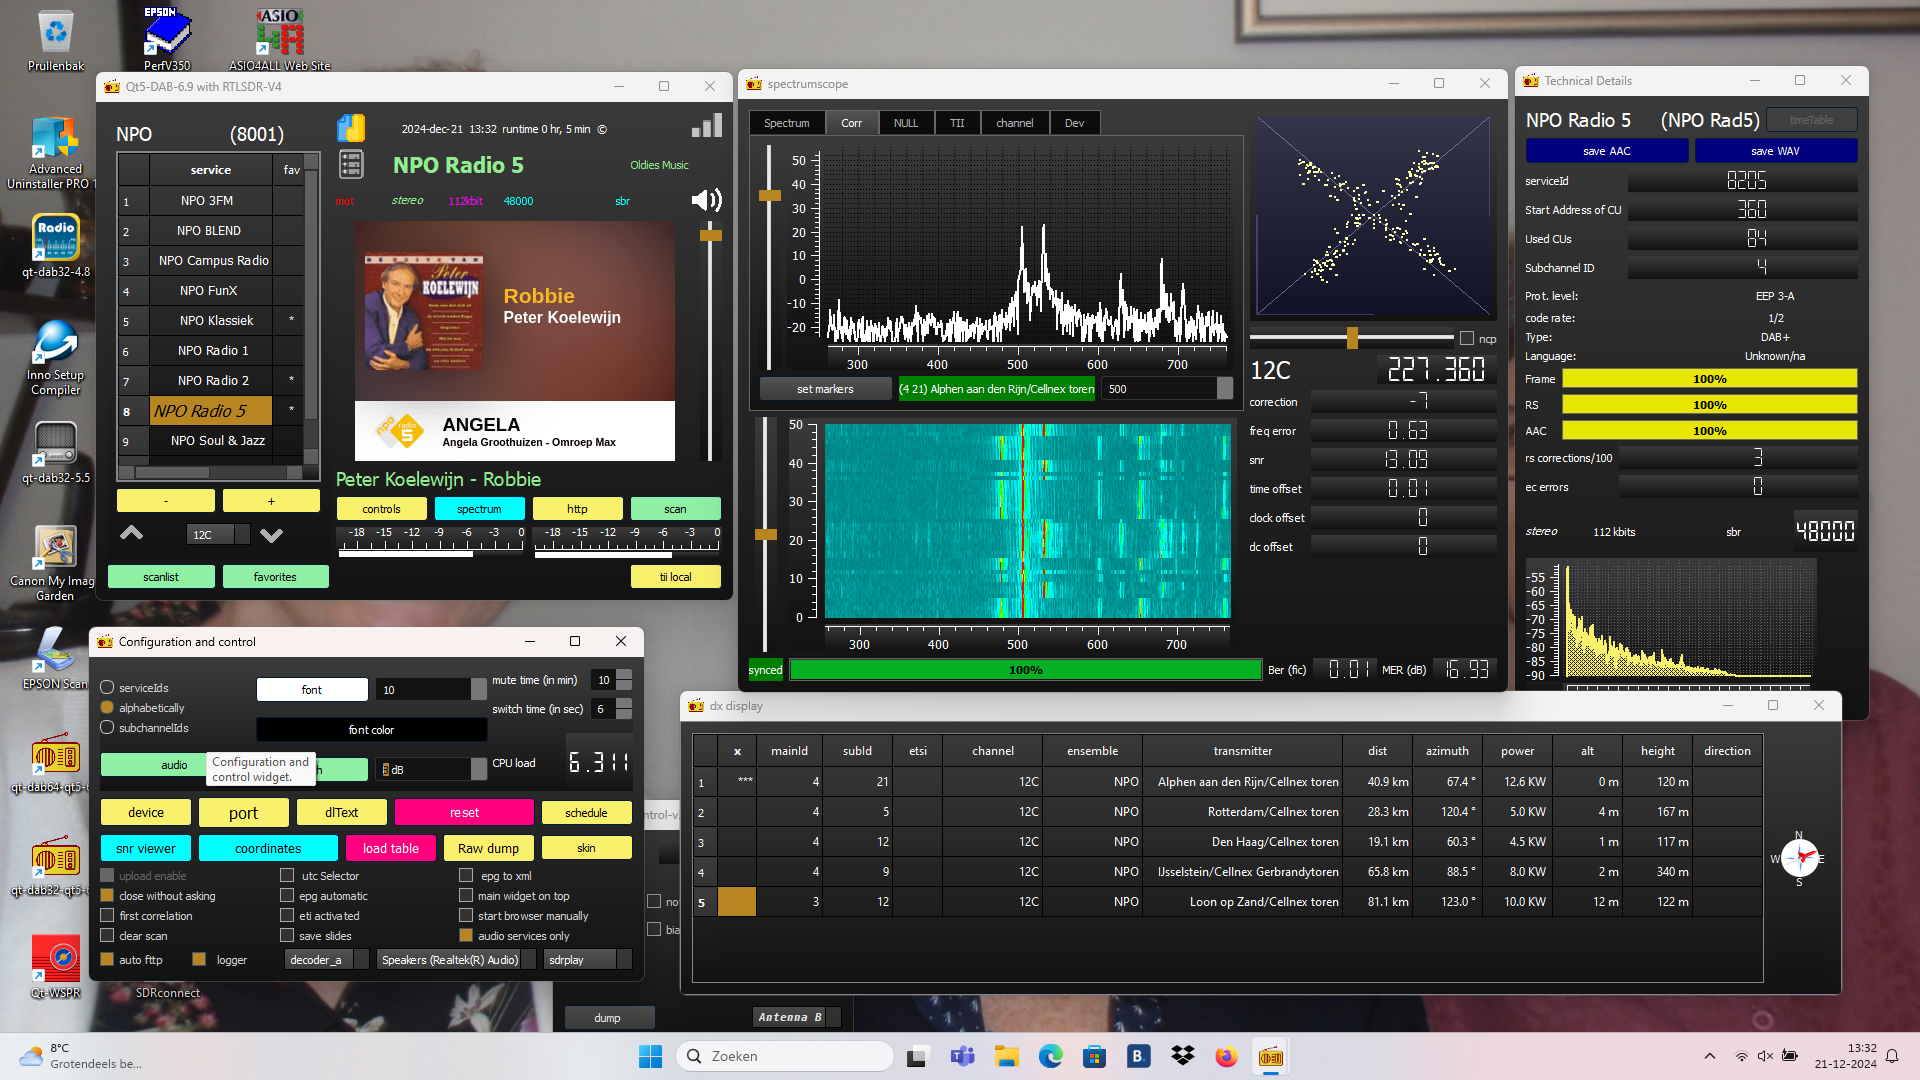
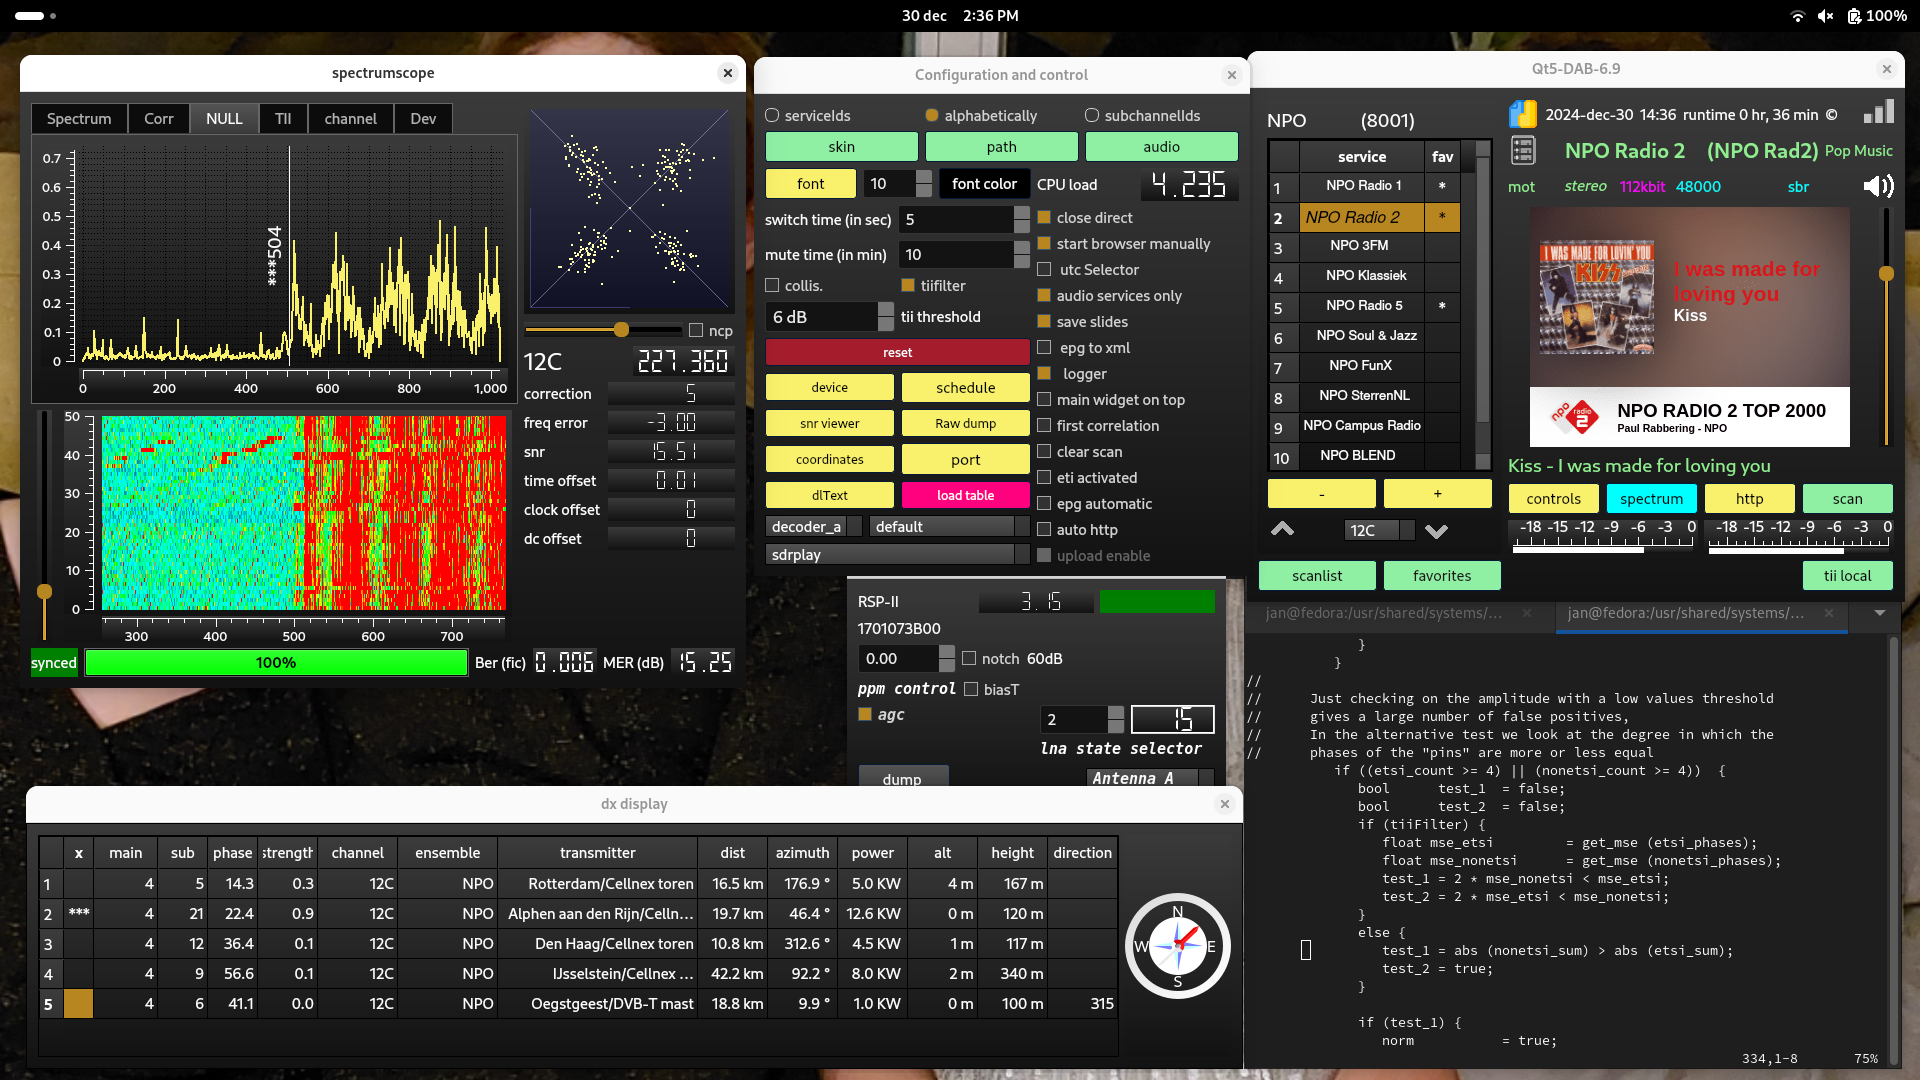
cleaning up and better headers

diff --git a/qt-dab-6.9/radio.cpp b/qt-dab-6.9/radio.cpp
@@ -2549,7 +2549,12 @@ void	RadioInterface::start_scan_single () {
 	                           "tii" + ";" +
 	                           "time" + ";" +
 	                           "SNR" + ";" +
-	                           "nr services" + ";";
+	                           "nr services" + ";" +
+	                           "transmitterName;" +
+	                           "distance;" +
+	                           "azimuth;" +
+	                           "height";
+	 
 	scanTable_p	-> addLine (topLine);
 	scanTable_p	-> addLine ("\n");
 
@@ -2580,7 +2585,11 @@ void	RadioInterface::start_scan_continuous () {
 	                           "tii" + ";" +
 	                           "time" + ";" +
 	                           "SNR" + ";" +
-	                           "nr services" + ";";
+	                           "nr services" + ";" +
+	                           "transmitterName;" +
+	                           "distance;" +
+	                           "azimuth;" +
+	                           "height";
 	scanTable_p -> addLine (topLine);
 	scanTable_p	-> addLine ("\n");
 
@@ -2605,7 +2614,7 @@ void	RadioInterface::start_scan_continuous () {
 void	RadioInterface::stopScanning	() {
 	if (!theSCANHandler. active ())
 	   return;
-	fprintf (stderr, "De scan wordt gestopt\n");
+//	fprintf (stderr, "De scan wordt gestopt\n");
 	disconnect (theOFDMHandler, &ofdmHandler::no_signal_found,
 	            this, &RadioInterface::no_signal_found);
 	presetButton	-> setText ("favorites");
@@ -2750,7 +2759,7 @@ void	RadioInterface::next_for_scan_continuous () {
 	stopChannel ();
 
 	QString cs	= theSCANHandler. getNextChannel ();
-	fprintf (stderr, "Going for channel %s\n", cs. toLatin1 (). data ());
+//	fprintf (stderr, "Going for channel %s\n", cs. toLatin1 (). data ());
 	int cc	= channelSelector -> findText (cs);
 	new_channelIndex (cc);
 	int switchDelay	= 
@@ -2775,13 +2784,13 @@ QString	theHeight;
 
 	if (channel. mainId != -1) 
 	   tii		= ids_to_string (channel. mainId,
-	                                     channel. subId) + ";" ;
+	                                     channel. subId);
 	else
-	   tii		= "?,?;";
+	   tii		= "???";
 	if (channel. transmitterName != "")
-	   theName	= channel. transmitterName + ";";
+	   theName	= channel. transmitterName;
 	else
-	   theName 	= ";";
+	   theName 	= " ";
 	if (channel. distance > 0) {
 	   theDistance	= QString::number (channel. distance, 'f', 1) + " km ";
 	   theAzimuth	= QString::number (channel. azimuth, 'f', 1)
@@ -2801,12 +2810,12 @@ QString	theHeight;
 	                      channel. channelName  + ";" +
 	                      QString::number (channel. tunedFrequency) + ";" +
 	                      hextoString (channel. Eid) + ";" +
-	                      tii +
+	                      tii + ";" +
 	                      utcTime + ";" +
 	                      SNR + ";" +
 	                      QString::number (channel. nrServices) +";" +
 	                      theName + ";" +
-	                      theDistance + ";" +
+			      theDistance + ";" +
 	                      theAzimuth + ";" + theHeight;
 	return headLine;
 }
@@ -2847,9 +2856,9 @@ QString theHeight;
 	tii		= ids_to_string (tr. theTransmitter. mainId,
 	                                 tr. theTransmitter. subId) + ";" ;
 	if (tr. theTransmitter. transmitterName != "")
-	   theName	= tr. theTransmitter. transmitterName + ";";
+	   theName	= tr. theTransmitter. transmitterName;
 	else
-	   theName 	= ";";
+	   theName 	= "";
 	
 	if (tr. theTransmitter. distance > 0) {
 	   theDistance	= QString::number (tr. theTransmitter. distance, 'f', 1) + " km ";
@@ -4266,4 +4275,13 @@ void	RadioInterface::handle_tiiButton () {
 	}
 	theOFDMHandler -> set_dxMode (dxMode);
 }
+
+void	RadioInterface::handle_tiiCollisions     (bool b) {
+	theOFDMHandler	-> set_tiiCollisions (b);
+}
+
+void	RadioInterface::handle_tiiFilter         (bool b) {
+	theOFDMHandler	-> set_tiiFilter	(b);
+}
+
 

diff --git a/src/ofdm/tii-detector.cpp b/src/ofdm/tii-detector.cpp
@@ -30,7 +30,7 @@ constexpr float F_DEG_PER_RAD = (float)(180.0 / M_PI);
 
 
 // TII pattern for transmission modes I, II and IV
-static const uint8_t table[] = {
+static const uint8_t patternTable[] = {
 	0x0f,	// 0 0 0 0 1 1 1 1		0
 	0x17,	// 0 0 0 1 0 1 1 1		1
 	0x1b,	// 0 0 0 1 1 0 1 1		2
@@ -322,12 +322,20 @@ int Teller = 0;
 //	In the alternative test we look at the degree in which the
 //	phases of the "pins" are more or less equal
 	   if ((etsi_count >= 4) || (nonetsi_count >= 4))  {
-	      float mse_etsi	= get_mse (etsi_phases);
-	      float mse_nonetsi	= get_mse (nonetsi_phases);
-	      bool test1_a	= 2 * mse_nonetsi < mse_etsi;
-	      bool test1_b	= abs (nonetsi_sum) > abs (etsi_sum);
-	      bool test2_a	= 2 * mse_etsi < mse_nonetsi;
-	      if ((tiiFilter && test1_a) || (!tiiFilter && test1_b)) {
+	      bool	test_1	= false;
+	      bool	test_2	= false;
+	      if (tiiFilter) {
+	         float mse_etsi		= get_mse (etsi_phases);
+	         float mse_nonetsi	= get_mse (nonetsi_phases);
+	         test_1	= 2 * mse_nonetsi < mse_etsi;
+	         test_2 = 2 * mse_etsi < mse_nonetsi;
+	      }
+	      else {
+	         test_1	= abs (nonetsi_sum) > abs (etsi_sum);
+	         test_2 = true;
+	      }
+
+	      if (test_1) {
 	         norm		= true;
 	         sum		= nonetsi_sum;
 	         cmplx_ptr	= nonetsiTable;
@@ -336,22 +344,22 @@ int Teller = 0;
 	         pattern	= nonetsi_pattern;
 	      }
 	      else
-	      if ((tiiFilter && test2_a)  || !tiiFilter) {
+	      if (test_2) {
 	         sum		= etsi_sum;
 	         cmplx_ptr	= etsiTable;
 	         float_ptr	= etsi_floatTable;
 	         count		= etsi_count;
 	         pattern	= etsi_pattern;
 	      }
-	      else {
+	      else {	// happens onlu when tiiFilter is "on"
 	         count = 0;
 	      }
 	   }
 
 //	Find the Main Id that matches the pattern
 	   if (count == 4) {
-	      for (; mainId < (int)sizeof (table); mainId++)
-	         if (table [mainId] == pattern)
+	      for (; mainId < (int)sizeof (patternTable); mainId++)
+	         if (patternTable [mainId] == pattern)
 	            break;
 	   }
 
@@ -359,10 +367,10 @@ int Teller = 0;
 	   else
 	   if (count > 4) {
 	      float mm = 0;
-	      for (int k = 0; k < (int)sizeof (table); k++) {
+	      for (int k = 0; k < (int)sizeof (patternTable); k++) {
 	         Complex val = Complex (0,0);
 	         for (int i = 0; i < NUM_GROUPS; i++) {
-	            if (table [k] & bits [i])
+	            if (patternTable [k] & bits [i])
 	               val += cmplx_ptr [subId + GROUPSIZE * i];
 	         }
 
@@ -388,7 +396,7 @@ int Teller = 0;
 
 // Calculate the level of the second main ID
 	      for (int i = 0; i < NUM_GROUPS; i++) {
-	         if ((table [mainId] & bits [i])== 0) {
+	         if ((patternTable [mainId] & bits [i]) == 0) {
 	            int index = subId + GROUPSIZE * i;
 	            if (float_ptr [index] > noise * threshold)
 	               sum += cmplx_ptr [index];
@@ -396,8 +404,8 @@ int Teller = 0;
 	      }
 
 	      if (subId == selected_subId) { // List all possible main IDs
-	         for (int k = 0; k < (int)sizeof (table); k++) {
-	            int pattern2 = table [k] & pattern;
+	         for (int k = 0; k < (int)sizeof (patternTable); k++) {
+	            int pattern2 = patternTable [k] & pattern;
 	            int count2 = 0;
 	            for (int i = 0; i < NUM_GROUPS; i++)
 	               if (pattern2 & bits [i])

diff --git a/ofdm-handler.cpp b/ofdm-handler.cpp
@@ -59,8 +59,6 @@
 	                                    theFicHandler (mr, p -> dabMode),
 	                                    theEtiGenerator (p -> dabMode,
 	                                                  &theFicHandler),
-//	                                    theTIIDetector (p -> dabMode,
-//	                                                      dabSettings),
 	                                    theOfdmDecoder (mr,
 	                                                 p -> dabMode,
 	                                                 inputDevice -> bitDepth(),
@@ -131,6 +129,10 @@
 	         mr,  &RadioInterface::show_Corrector);
 	tiiThreshold = value_i (settings_p, CONFIG_HANDLER,
                                              TII_THRESHOLD, 6);
+	tiiCollisions_active = value_i (settings_p, CONFIG_HANDLER,
+	                                      "tiiCollisions", 1) != 0;
+	tiiFilter_active = value_i (settings_p, CONFIG_HANDLER,
+	                                      "tiiFilter", 1) != 0;
 //	theTIIDetector. reset();
 	theOfdmDecoder. handle_decoderSelector (decoder);
 }
@@ -149,6 +151,14 @@
 
 void	ofdmHandler::set_tiiThreshold	(int16_t threshold) {
 	tiiThreshold = threshold;
+}
+
+void	ofdmHandler::set_tiiCollisions	(bool b) {
+	tiiCollisions_active = b;
+}
+
+void	ofdmHandler::set_tiiFilter	(bool b) {
+	tiiFilter_active	= b;
 }
 
 void	ofdmHandler::start () {
@@ -433,14 +443,11 @@ int	snrCount	= 0;
 	         if (++tii_counter >= tii_delay) {
 	            tiiBuffer_p -> putDataIntoBuffer (ofdmBuffer. data(),
 	                                                          T_u);
-	            uint8_t x = value_i (settings_p, CONFIG_HANDLER,
-	                                               "tiiCollisdions", 0);
-	            uint8_t x1 = value_i (settings_p, CONFIG_HANDLER,
-	                                               "tiiFilter", 0) != 0;
 	            show_tii_spectrum ();
 	            QVector<tiiData> resVec =
 	                           theTIIDetector. processNULL (tiiThreshold,
-	                                                 x, x1);
+	                                                 tiiCollisions_active,
+	                                                 tiiFilter_active);
 	            show_tiiData (resVec, 0);
 	            tii_counter = 0;
 //	            theTIIDetector. reset();

diff --git a/qt-dab-6.9/support/config-handler.cpp b/qt-dab-6.9/support/config-handler.cpp
@@ -190,6 +190,10 @@ int	index_for_key (int key) {
 	this -> tiiThreshold_setter -> setValue (v);
 	connect (tiiThreshold_setter, qOverload<int>(&QSpinBox::valueChanged),
 	         myRadioInterface, &RadioInterface::handle_tiiThreshold);
+	connect (this, &configHandler::process_tiiCollisions,
+	         myRadioInterface, &RadioInterface::handle_tiiCollisions);
+	connect (this, &configHandler::process_tiiFilter,
+	         myRadioInterface, &RadioInterface::handle_tiiFilter);
 	connect (pathButton, &QPushButton::clicked,
 	         this, &configHandler::handle_pathButton);
 	connect (auto_http, &QCheckBox::stateChanged,
@@ -905,15 +909,17 @@ uint8_t x       = audioServices_only -> isChecked ();
         store (dabSettings, CONFIG_HANDLER, "audioServices_only", x);
 }
 
-void	configHandler::handle_tiiCollisions	(int state) {
-uint8_t x	= tiiCollisions	-> isChecked ();
-	(void)state;
-	store (dabSettings, CONFIG_HANDLER, "tiiCollisions", x);
+void	configHandler::handle_tiiCollisions     (int state) {
+bool x       = tiiCollisions -> isChecked ();
+        (void)state;
+        store (dabSettings, CONFIG_HANDLER, "tiiCollisions", x);
+	process_tiiCollisions (x);
 }
 
-void	configHandler::handle_tiiFilter		(int state) {
-bool	x	= tiiFilter	-> isChecked ();
-	(void)state;
-	store (dabSettings, CONFIG_HANDLER, "tiiFilter", x ? 1 : 0);
+void	configHandler::handle_tiiFilter         (int state) {
+bool    x       = tiiFilter     -> isChecked ();
+        (void)state;
+        store (dabSettings, CONFIG_HANDLER, "tiiFilter", x ? 1 : 0);
+	process_tiiFilter (x);
 }
 

diff --git a/ofdm-handler.h b/ofdm-handler.h
@@ -65,9 +65,13 @@ public:
 	bool		start_etiGenerator	(const QString &);
 	void		stop_etiGenerator	();
 	void		reset_etiGenerator	();
-	void		set_tiiThreshold	(int16_t);
 	void		set_scanMode		(bool);
 	void		get_frameQuality	(int *, int*, int *);
+//
+//	for the tii settings
+	void		set_tiiThreshold	(int16_t);
+	void		set_tiiCollisions	(bool);
+	void		set_tiiFilter		(bool);
 //	servicing our subordinates
 //	for the ficHandler:
 	QString		find_service		(uint32_t, int);
@@ -122,6 +126,8 @@ private:
 	mscHandler		theMscHandler;
 
 	int16_t			tiiThreshold;
+	bool			tiiCollisions_active;
+	bool			tiiFilter_active;
 
 //	deviceHandler		*inputDevice;
 	int			decoder;

diff --git a/qt-dab-6.9/forms-v7/new-display/scopes/waterfall-scope.h b/qt-dab-6.9/forms-v7/new-display/scopes/waterfall-scope.h
@@ -39,7 +39,7 @@ public:
 		waterfallScope	(QwtPlot *, int, int);
 		~waterfallScope	();
 	void	display		(const floatQwt *, const floatQwt *,
-	                         floatQwt, int32_t);
+	                         floatQwt, int32_t marker = 0);
 	void	cleanUp		();
 private:
 	QwtPlot		*plotgrid;
@@ -47,8 +47,12 @@ private:
 	int		bitDepth;
 	spectrogramData	*WaterfallData;
 	int16_t		rasterSize;
-	double		*plotData;
+	std::vector<double>	plotData;
 	QwtLinearColorMap	*colorMap;
+	QwtLinearColorMap 	*axisMap;
 	QwtScaleWidget		*rightAxis;
+	bool		started;
+	int		oldAmp;
+	
 };
 

diff --git a/qt-dab-6.9/support/config-handler.h b/qt-dab-6.9/support/config-handler.h
@@ -131,6 +131,7 @@ private slots:
 	void	handle_pathButton		();
 	void	handle_audioServices_only	(int);
 	void	handle_auto_http		(int);
+
 	void	handle_tiiCollisions		(int);
 	void	handle_tiiFilter		(int);
 
@@ -147,6 +148,9 @@ signals:
 	void	set_serviceOrder	(int);
 	void	set_dcRemoval		(bool);
 	void	frameClosed		();
+
+	void	process_tiiCollisions	(bool);
+	void	process_tiiFilter	(bool);
 
 };
 

diff --git a/qt-dab-6.9/forms-v7/new-display/scopes/spectrogramdata.cpp b/qt-dab-6.9/forms-v7/new-display/scopes/spectrogramdata.cpp
@@ -42,7 +42,7 @@
 #endif
 }
 
-	spectrogramData::~spectrogramData() {
+	spectrogramData::~spectrogramData () {
 }
 
 void	spectrogramData::initRaster (const QRectF &x, const QSize &raster) {

diff --git a/qt-dab-6.9/radio.h b/qt-dab-6.9/radio.h
@@ -564,4 +564,6 @@ public slots:
 	void			selectDecoder			(int);
 	
 	void			handle_aboutLabel		();
+	void			handle_tiiCollisions		(bool);
+	void			handle_tiiFilter		(bool);
 };
